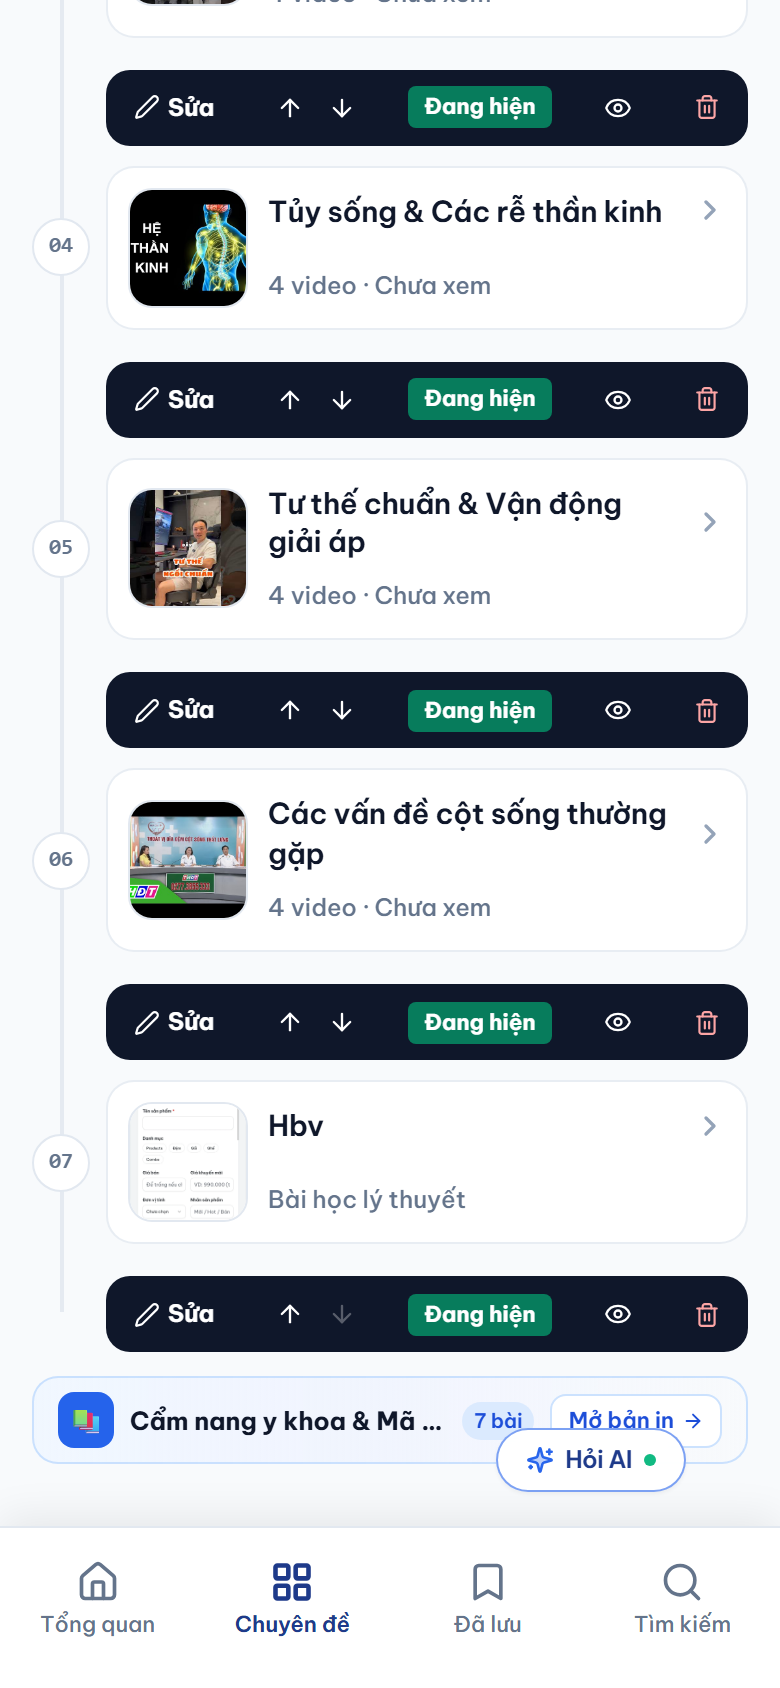
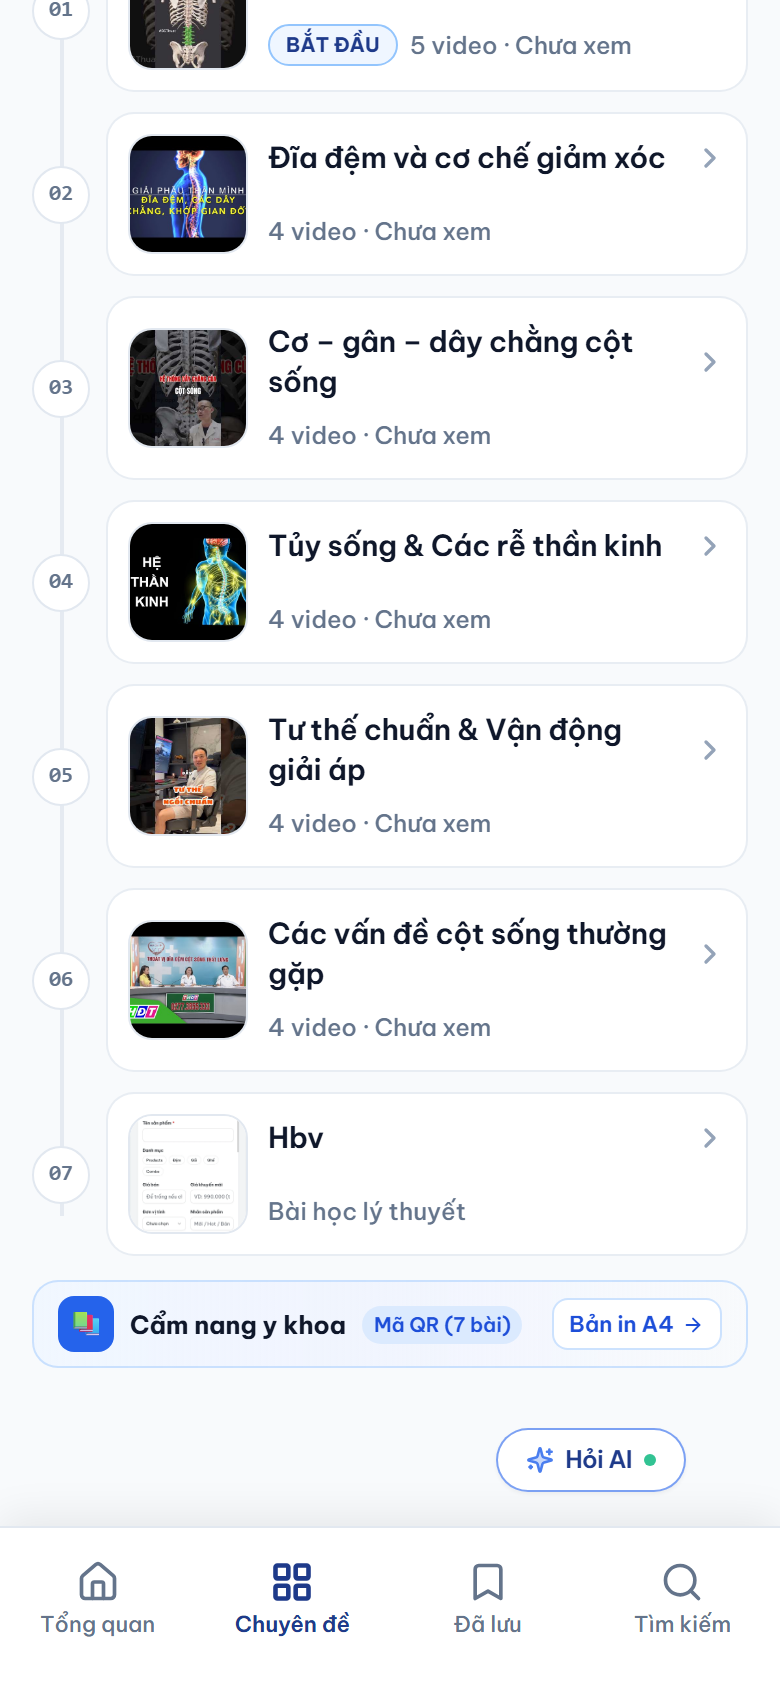
docs: cap nhat section 10 ve chuan hoa tinh gon mobile trong PROJECT_BRAIN

diff --git a/capture_streamlined_screens.js b/capture_streamlined_screens.js
@@ -17,9 +17,9 @@ async function run() {
 
   const page = await context.newPage();
 
-  const baseUrl = 'https://app-hoc-co-kfnunmax1-tungtran2510-3020s-projects.vercel.app';
+  const baseUrl = 'https://app-hoc-co-29proejsz-tungtran2510-3020s-projects.vercel.app';
   console.log('Sử dụng baseUrl:', baseUrl);
-  await page.goto(baseUrl + '/dang-nhap', { waitUntil: 'networkidle' });
+  await page.goto(baseUrl + '/dang-nhap', { waitUntil: 'domcontentloaded' });
   await page.fill('input[type="tel"]', '0974248716');
   await page.fill('input[type="password"]', 'Tung@2510');
   await page.click('button[type="submit"]', { force: true });
@@ -27,11 +27,11 @@ async function run() {
 
   // 1. Chụp trang chuyên đề - khối Cẩm nang y khoa & Mã QR tinh gọn 1 dòng ở dưới cùng lộ trình
   console.log('2. Chụp trang chuyên đề Cột sống & khối Cẩm nang 1 dòng...');
-  await page.goto(baseUrl + '/cot-song', { waitUntil: 'networkidle' });
+  await page.goto(baseUrl + '/cot-song', { waitUntil: 'domcontentloaded' });
   await page.waitForTimeout(1200);
 
-  // Cuộn thẳng đến nút Cẩm nang y khoa & Mã QR ở cuối cùng lộ trình
-  const handbookBtn = page.locator('button:has-text("Cẩm nang y khoa & Mã QR")');
+  // Cuộn thẳng đến nút Cẩm nang y khoa ở cuối cùng lộ trình
+  const handbookBtn = page.locator('button:has-text("Cẩm nang y khoa")');
   await handbookBtn.scrollIntoViewIfNeeded();
   await page.waitForTimeout(600);
 
@@ -42,7 +42,7 @@ async function run() {
 
   // Mở bài học để mở menu Tùy chọn -> Cài đặt quản trị
   console.log('3. Mở bài học và mở Modal Cài đặt...');
-  await page.goto(baseUrl + '/cot-song/tong-quan-ve-cot-song', { waitUntil: 'networkidle' });
+  await page.goto(baseUrl + '/cot-song/tong-quan-ve-cot-song', { waitUntil: 'domcontentloaded' });
   await page.waitForTimeout(1000);
 
   // Bấm menu "Tùy chọn"

diff --git a/PROJECT_BRAIN.md b/PROJECT_BRAIN.md
@@ -146,3 +146,19 @@ Hệ thống hỗ trợ đầy đủ **10 khối nội dung chuẩn**:
    - Trong **Menu Tùy chọn ⋮ bài học** (`PageHeaderBar.tsx`): 2 nút chọn nhanh chuyển đổi 0ms.
    - Lưu trữ bền vững tại `localStorage` (`qbiz_theme_palette`) và đồng bộ Supabase `settings.block_styles.theme_palette`.
 
+---
+
+## 10. CHUẨN HOÁ TINH GỌN DI ĐỘNG (MOBILE-FIRST COMPACT STANDARDS)
+1. **Khối Cẩm Nang Y Khoa & Mã QR:**
+   - Vị trí: Đặt ở **DƯỚI CÙNG LỘ TRÌNH HỌC TẬP** (sau tất cả bài học), không chen vào đầu trang.
+   - Bố cục: Đúng **1 DÒNG DUY NHẤT** (`h-11`, `mb-12`), định dạng:
+     `[ 📚 Cẩm nang y khoa ] [ Mã QR (n bài) ] ------------> [ Bản in A4 → ]`
+   - Tuyệt đối không dùng 2 dòng văn bản mô tả dài dòng; giữ khoảng cách đáy an toàn với nút nổi "Hỏi AI".
+2. **Modal Cài Đặt Quản Trị Trên Di Động (`AdminSettingsModal.tsx`):**
+   - Thanh Tab: Chuyển sang thanh cuộn ngang mượt mà (`overflow-x-auto no-scrollbar`), các tab dạng pill bo tròn `h-8 px-3 text-[12px] font-extrabold`. Không chia cột ép co rúm.
+   - Bảng màu: Lưới 2 cột cao đúng 44px (`h-11`), hiển thị vòng màu gradient + tên bảng màu + checkmark. Bỏ mô tả dài dòng.
+   - Cỡ chữ đọc bài: 3 nút ngang cao 36px (`h-9`).
+   - Tự động chuyển video & Hiện tiến độ: Đóng gói thành nhãn 1 dòng kèm checkbox bật/tắt tiện lợi.
+   - Tab Chung & Tab Bảo mật: Thu gọn chiều cao ô nhập liệu (`h-10`), label xúc tích, nút hành động cao `h-10` thanh lịch.
+
+
